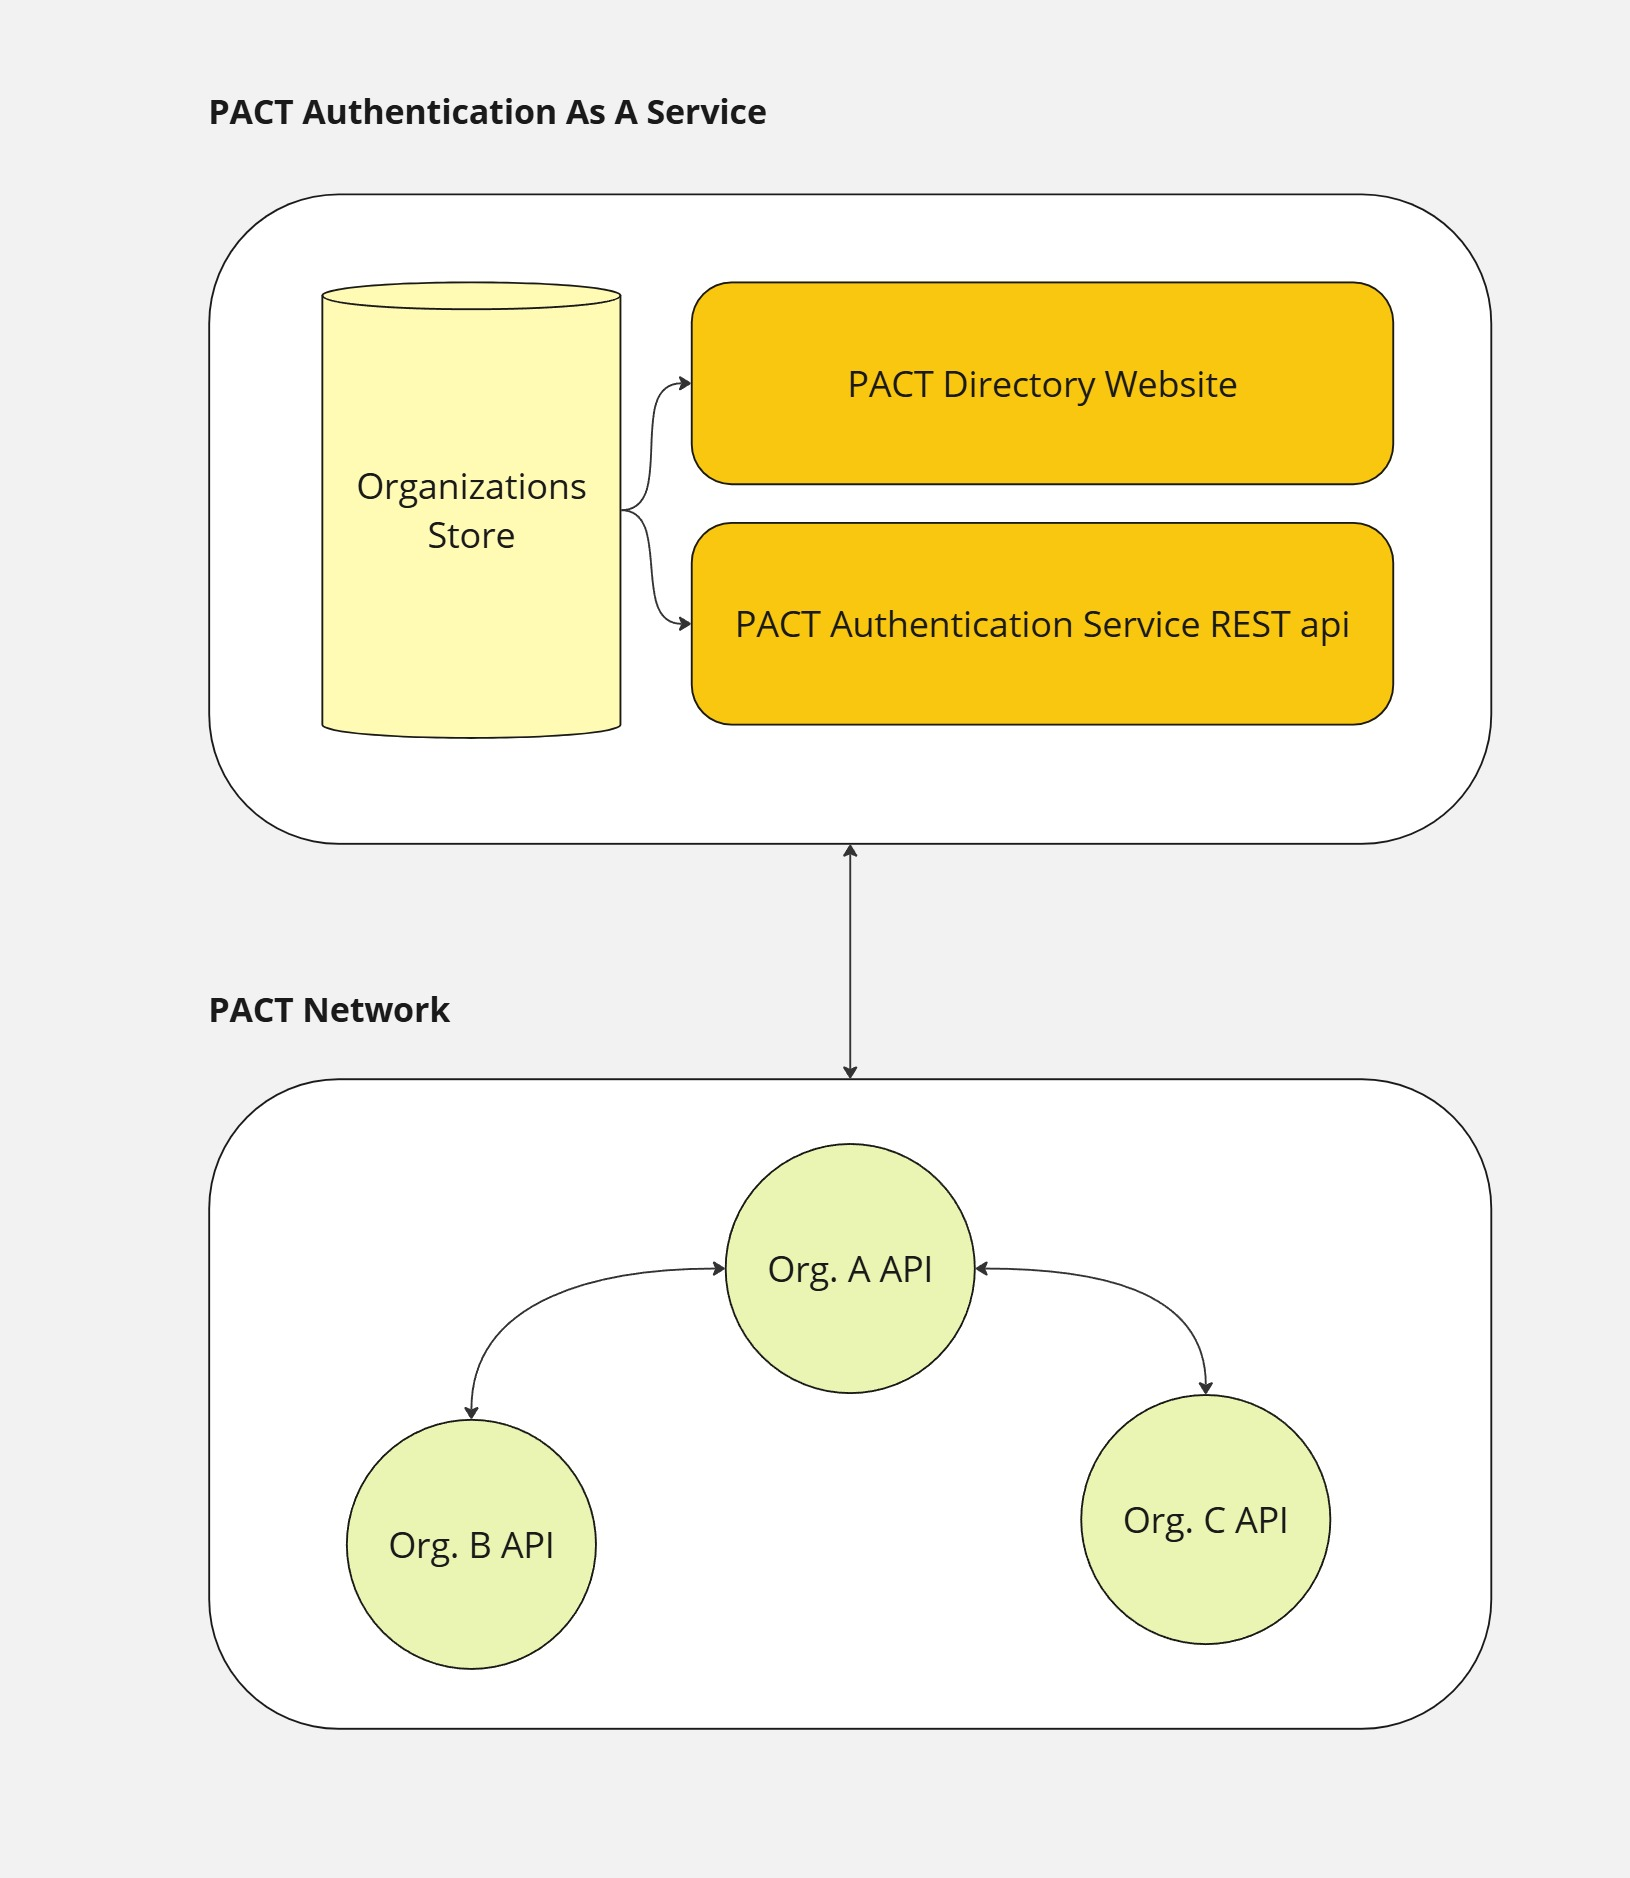
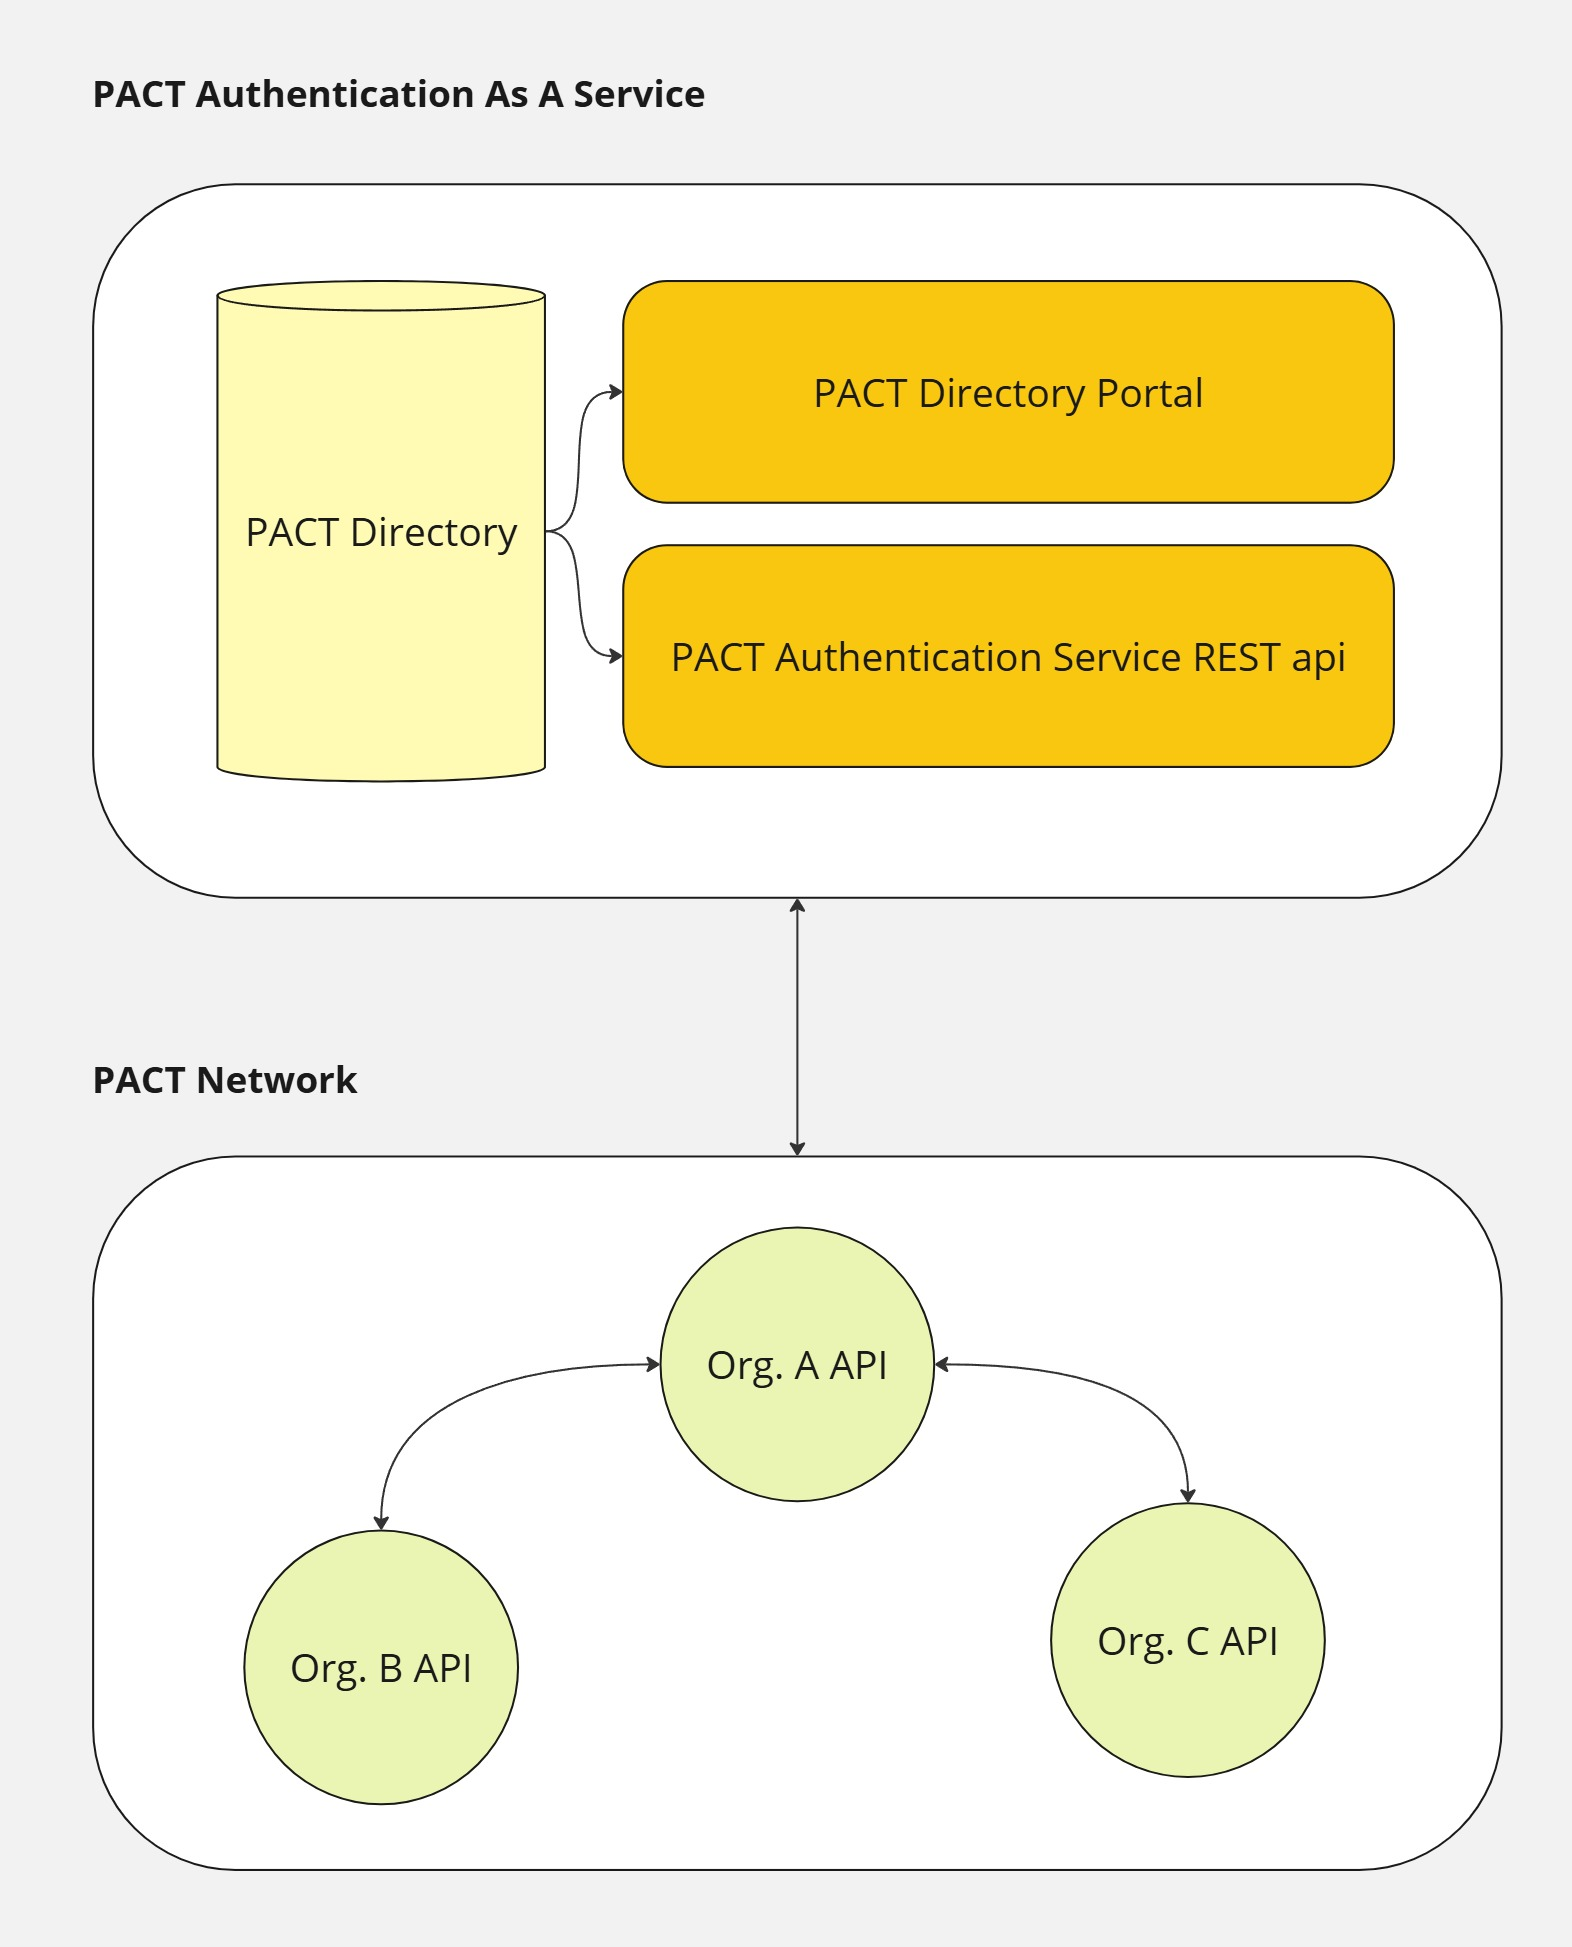
revise document

diff --git a/docs/authentication-as-a-service-design.md b/docs/authentication-as-a-service-design.md
@@ -9,18 +9,18 @@ The purpose of this document is to outline the design of the authentication serv
 From a high level overview the PACT Authentication Service includes three key components:
 
 - Organizations Store: A central database or storage solution that holds information about the various organizations in the network.
-- PACT Directory Website: An interface for users within these organizations to discover and exchange PCF data. This interface also allows orgnisations to request and grant access to other organizations to their PCF data.
-- PACT Authentication Service REST API: A RESTful API that allows client systems to authenticate using the OAuth 2.0 standard so they access the PACT conforming APIs in the network.
+- PACT Directory Portal: An interface for users within these organizations to discover and exchange PCF data. This interface also allows orgnisations to request and grant access to other organizations to their PCF data.
+- PACT Authentication Service REST API: A RESTful API that allows client systems to authenticate using the OAuth 2.0 standard so they access the PACT conformant APIs in the network.
 
 ![](<PACT Authentication As A Service.jpg>)
 
 ## Registering an organization in the PACT directory
 
-When an organization wants to join the PACT network, it will need to register in the PACT directory website. The registration process will involve providing the organization's name, contact information, and other relevant details. Once the organization is registered, it will be able to request and grant access to other organizations sharing PCF data through their PACT compliant APIs.
+When an organization wants to join the PACT network, it will need to register in the PACT Directory Portal. The registration process will involve providing the organization's name, contact information, and other relevant details. Once the organization is registered, it will be able to request and grant access to other organizations sharing PCF data through their PACT conformant APIs.
 
 ## Data access request flow
 
-When an organization wants to access PCF data from another organization, it will need to request access through the PACT directory. The second organization will receive an email notification directing them to PACT directory where they can grant or deny access to the requesting organization.
+When an organization wants to access PCF data from another organization, it can request to create a contract between the two oganizations through the PACT Directory Portal. The second organization will receive an email notification directing them to PACT Directory Portal where they can grant or deny access to the requesting organization.
 
 The authentication grant flow will be as follows:
 
@@ -28,9 +28,9 @@ The authentication grant flow will be as follows:
 
 ## Credentials and Authentication
 
-Each organization will be issued a `client_id` and `client_secret` pair that will be used to authenticate with the PACT Authentication Service. These credentials will be unique to each organization and will be used to identify the organization when making requests to the PACT Authentication Service to get an access token that will allow them to request PCF data from connected organizations.
+Each organization will be issued a `client_id` and `client_secret` pair that will be used to authenticate with the PACT Authentication Service. These credentials will be unique to each organization and will be used to identify the organization, and its PACT Conformant Solution, when making requests to the PACT Authentication Service to get an access token that will allow them to request PCF data from connected organizations.
 
-When a PACT conforming API receives a request from a client system, it will validate the access token provided by the client system with the PACT Authentication Service to ensure that the client system is authorized to access the data using the `client_secret` issued by the Authentication Service to validate the access token's authenticity.
+When a PACT conformant API receives a request from a client system, it will validate the access token provided by the client system with the PACT Authentication Service to ensure that the client system is authorized to access the data using the `client_secret` issued by the Authentication Service to validate the access token's authenticity.
 
 ## API request (PCF data) flow
 
@@ -52,7 +52,7 @@ Besides the OAuth 2.0 authentication flow, there are other options that can be u
 
 Mutual TLS (Transport Layer Security) authentication requires both client and server to present and verify certificates. In this setup, each server authenticates the other by validating SSL/TLS certificates, adding an extra layer of security beyond standard bearer tokens. It's very secure since both servers authenticate each other with trusted certificates which adds resillience against most common attack vectors. A request flow would look like this:
 
-![alt text](mtls-diagram.png)
+![](mtls-diagram.png)
 
 ### Pros of mTLS
 
@@ -77,19 +77,23 @@ Mutual TLS (Transport Layer Security) authentication requires both client and se
 
 ### Cons of mTLS
 
-1. **Complexity in Certificate Management**
+1. **Change to the PACT Tech Specs**
+
+   - PACT Tech Specs require OAuth, and PACT community has therefore implemented OAuth based authentication; changing to a different authentication flow would require a new major version and all implementations to upgrade, making IM non-usable until orgs have completed this implementation and therefore impractical as a choice for MVP
+
+2. **Complexity in Certificate Management**
 
    - Implementing mTLS requires managing client and server certificates, including issuing, distributing, renewing, and revoking certificates. This adds operational overhead, especially in large-scale environments.
 
-2. **Higher Setup and Maintenance Costs**
+3. **Higher Setup and Maintenance Costs**
 
    - Unlike simpler authentication methods (like API keys or bearer tokens), setting up mTLS requires more initial configuration and ongoing maintenance, including more involvement from IT teams within the organization(s) or Solution Providers.
 
-3. **Scalability Challenges**
+4. **Scalability Challenges**
 
    - Managing certificates for each client in large-scale deployments can be complex and may not scale as well as other methods like OAuth. Maintaining mTLS in microservices architectures, for example, can become challenging without automated certificate management.
 
-4. **Complexity in Error Handling and Debugging**
+5. **Complexity in Error Handling and Debugging**
    - Troubleshooting issues with mTLS can be more complex because both sides need valid certificates. Errors in certificate validity, expiration, or misconfiguration can lead to connection failures that are harder to diagnose than other authentication errors.
 
 **Recommendation:** The PACT Network should use OAuth 2.0 for authentication and authorization as it is a widely adopted standard for securing APIs and provides a good balance between security and usability. Organizations can use mTLS in addition to OAuth 2.0 for an extra layer of security if needed, but at this moment it should not be the primary method of authentication as it requires more operational overhead and complexity that could result in friction to adoption, and a barrier to entry for smaller organizations.

diff --git a/docs/diagrams.md b/docs/diagrams.md
@@ -18,7 +18,7 @@ sequenceDiagram
 sequenceDiagram
     participant Client as Data Recipient
     participant OAuthProvider as PACT IM OAuth Provider
-    participant API as Host System
+    participant API as Data Owner
 
     Client->>OAuthProvider: Exchange client_id, client_secret, and api url for Access Token
     OAuthProvider->>Client: Respond with Access Token
@@ -33,7 +33,7 @@ sequenceDiagram
 sequenceDiagram
     participant Client as Data Recipient
     participant OAuthProvider as PACT IM OAuth Provider
-    participant API as Host System
+    participant API as Data Owner
 
     Client->>OAuthProvider: Exchange client_id, client_secret, and api url for Access Token
     OAuthProvider->>Client: Respond with Access Token
@@ -53,7 +53,7 @@ sequenceDiagram
 ```mermaid
 sequenceDiagram
     participant Service A as Data Recipient
-    participant Service B as Host System
+    participant Service B as Data Owner
 
     Note over Service A,Service B: Both services have certificates signed by the same internal CA<br>and trust each other’s certificates directly.
 
